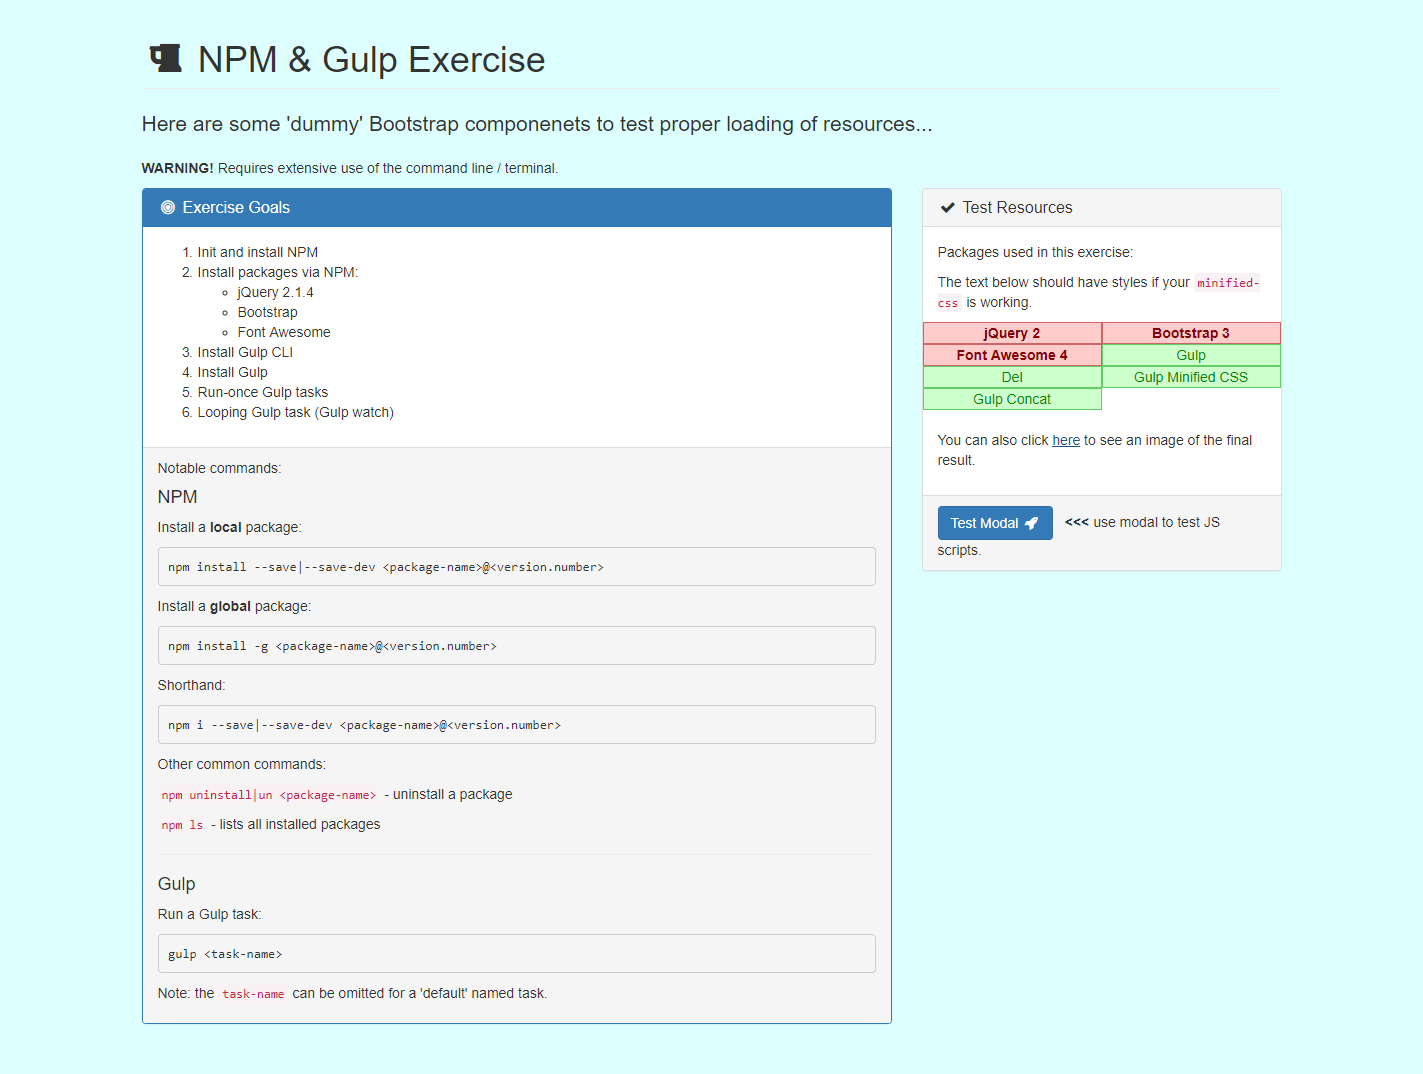
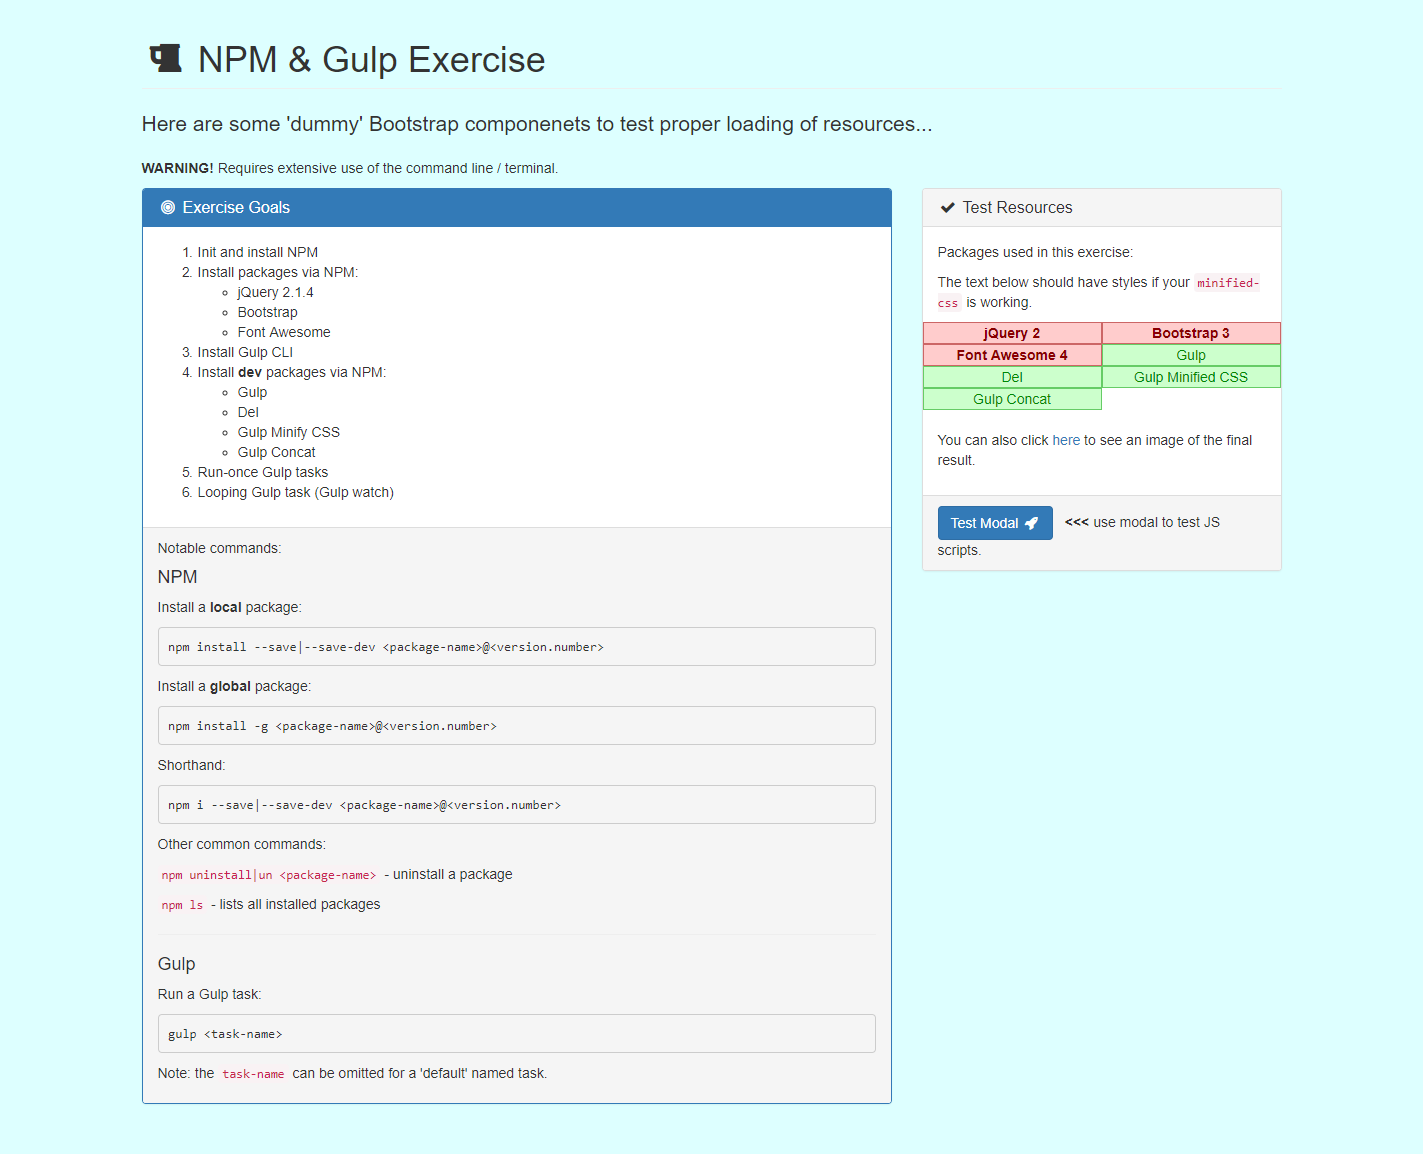
Refined content.

Changed region(s): [[0.0928, 0.0307, 0.9276, 0.7989], [0.0928, 0.8296, 0.6184, 0.9832]]

diff --git a/index.html b/index.html
@@ -34,7 +34,14 @@
                                 </ul>
                             </li>
                             <li>Install Gulp CLI</li>
-                            <li>Install Gulp</li>
+                            <li>Install <strong>dev</strong> packages via NPM:
+                                <ul>
+                                    <li>Gulp</li>
+                                    <li>Del</li>
+                                    <li>Gulp Minify CSS</li>
+                                    <li>Gulp Concat</li>
+                                </ul>
+                            </li>
                             <li>Run-once Gulp tasks</li>
                             <li>Looping Gulp task (Gulp watch)</li>
                         </ol>
@@ -102,24 +109,15 @@
 
     <!-- #testModal start -->
     <div class="modal fade" id="testModal" tabindex="-1" role="dialog" aria-labelledby="testModalLabel">
-        <div class="modal-dialog" role="document">
+        <div class="modal-dialog modal-lg" role="document">
             <div class="modal-content">
                 <div class="modal-header">
                     <button type="button" class="close" data-dismiss="modal" aria-label="Close"><span aria-hidden="true">&times;</span></button>
                     <h4 class="modal-title" id="testModalLabel">Test Resources</h4>
                 </div>
                 <div class="modal-body">
-                    <p>Packages used in this exercise:</p>
-                    <p>The text below should have styles if your <code>minified-css</code> is working.</p>
-                    <div id="grid-packages" class="row">
-                        <div class="col-md-6">jQuery 2</div>
-                        <div class="col-md-6">Bootstrap 3</div>
-                        <div class="col-md-6">Font Awesome 4</div>
-                        <div class="col-md-6 dev">Gulp</div>
-                        <div class="col-md-6 dev">Del</div>
-                        <div class="col-md-6 dev">Gulp Minified CSS</div>
-                        <div class="col-md-6 dev">Gulp Concat</div>
-                    </div>
+                    <p>End result (<a href="./final.html">full-size</a>):</p>
+                    <div class="text-center"><img class="img-responsive" src="./assets/final.png" /></div>
                 </div>
                 <div class="modal-footer">
                     <button type="button" class="btn btn-default" data-dismiss="modal">Close <i class="fa fa-times fa-fw"></i></button>
